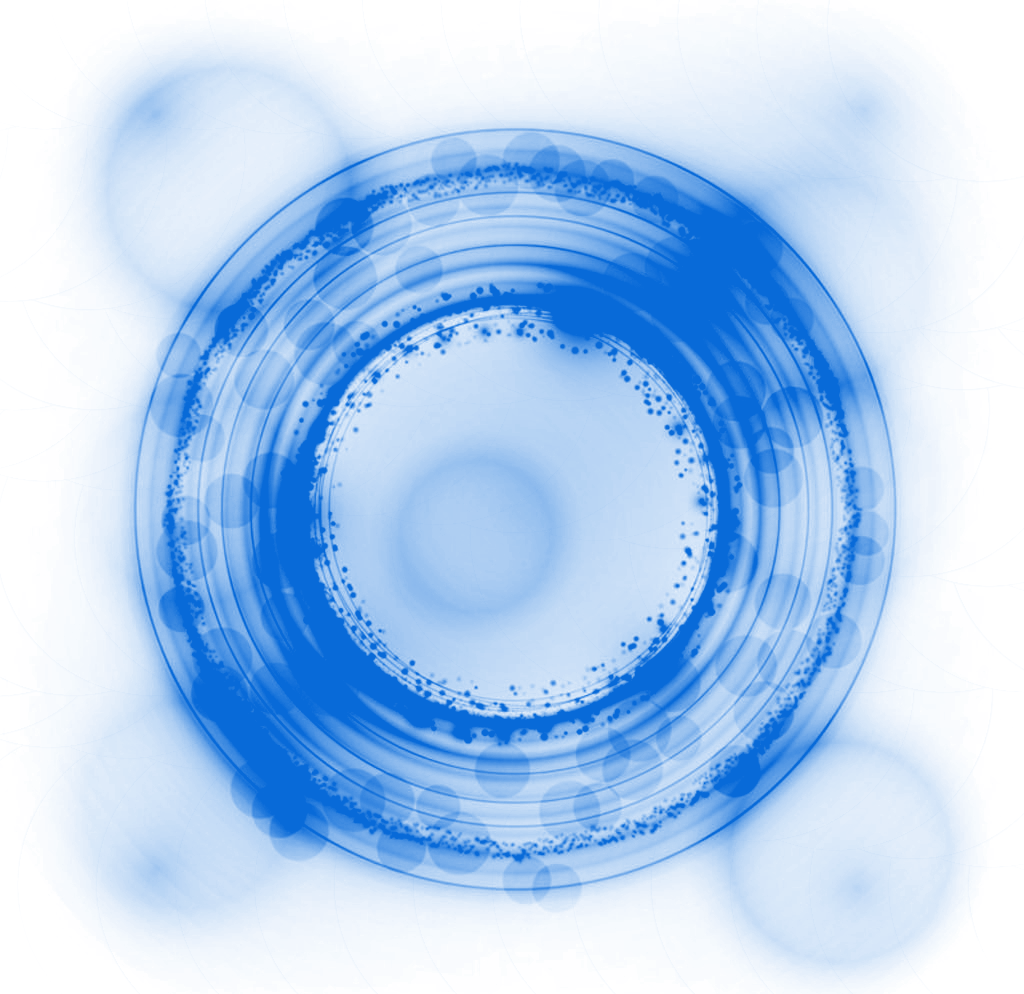
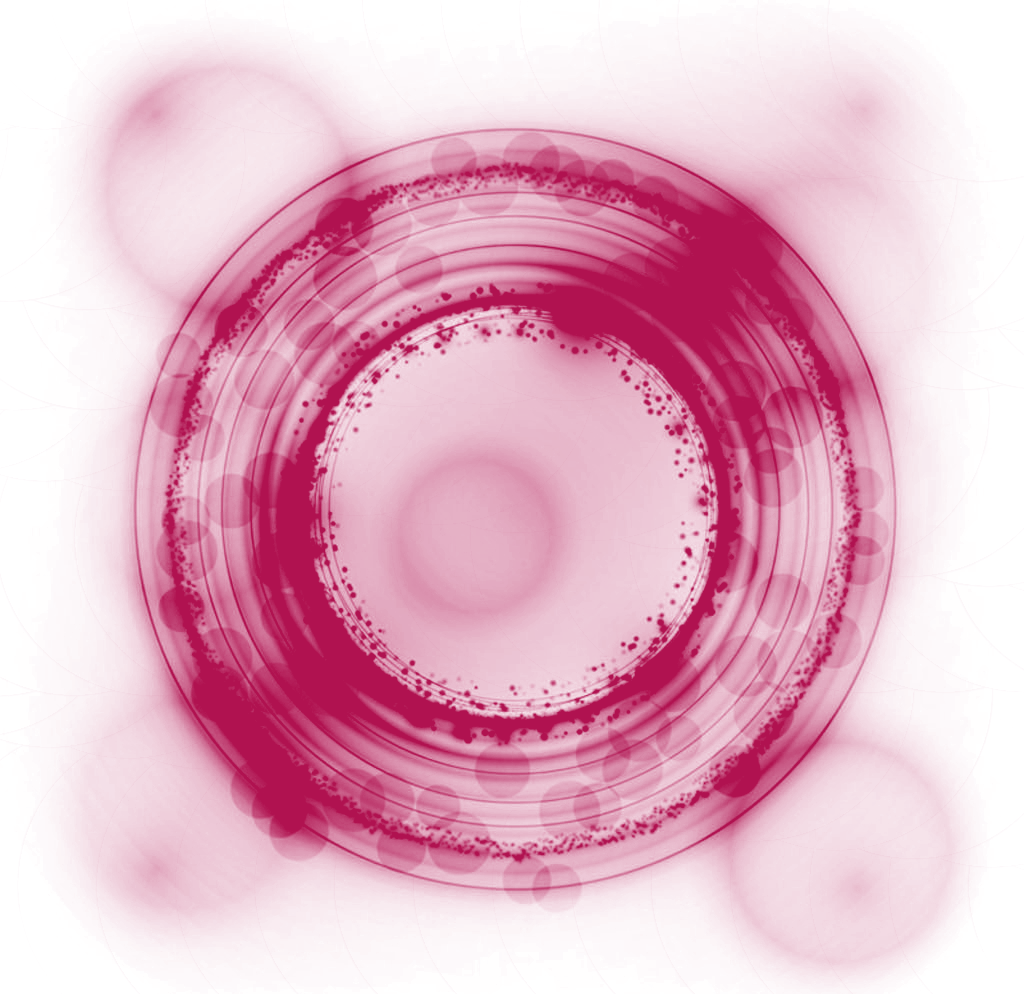
Add google location

diff --git a/public/assets/style.css b/public/assets/style.css
@@ -709,7 +709,7 @@ input {
 }
 
 .bg-dark {
-  background: #001d4c !important;
+  background: #FF0816 !important;
 }
 
 .bg-dark-hard {

diff --git a/resources/views/contact.blade.php b/resources/views/contact.blade.php
@@ -134,8 +134,12 @@
                                     </li>
                                 </ul>
                             </div>
+                            
                             <div id="tab2" class="tab-pane fade">
-                                <iframe src="https://www.google.com/maps/embed?pb=!1m10!1m8!1m3!1d14767.262289338461!2d70.79414485000001!3d22.284975!3m2!1i1024!2i768!4f13.1!5e0!3m2!1sen!2sin!4v1424308883981"></iframe>
+                               
+                                <iframe src="https://www.google.com/maps/embed?origin=mfe&pb=!1m4!2m1!1sAccra+digital+center!5e0!6i10"></iframe>
+                            
+                               
                             </div>
                         </div>
                     </div>
@@ -148,4 +152,6 @@
 
     <!-- Start Footer 
     ============================================= -->
+
+    
 @endsection
